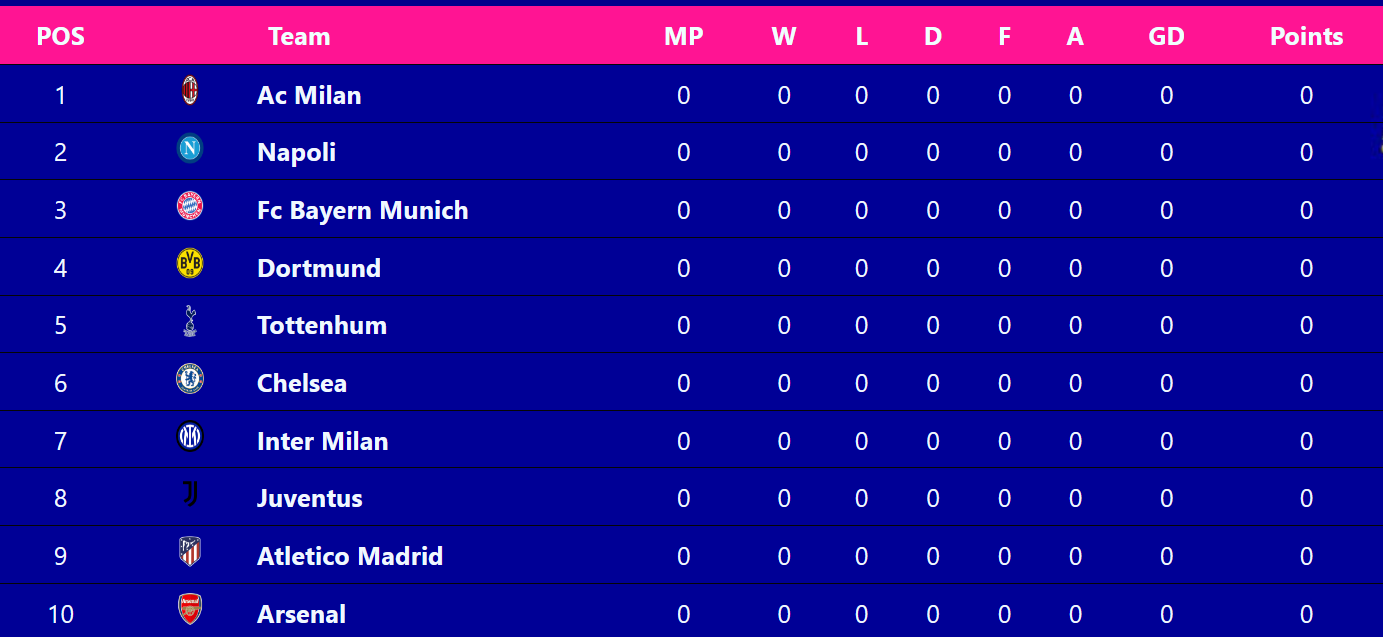
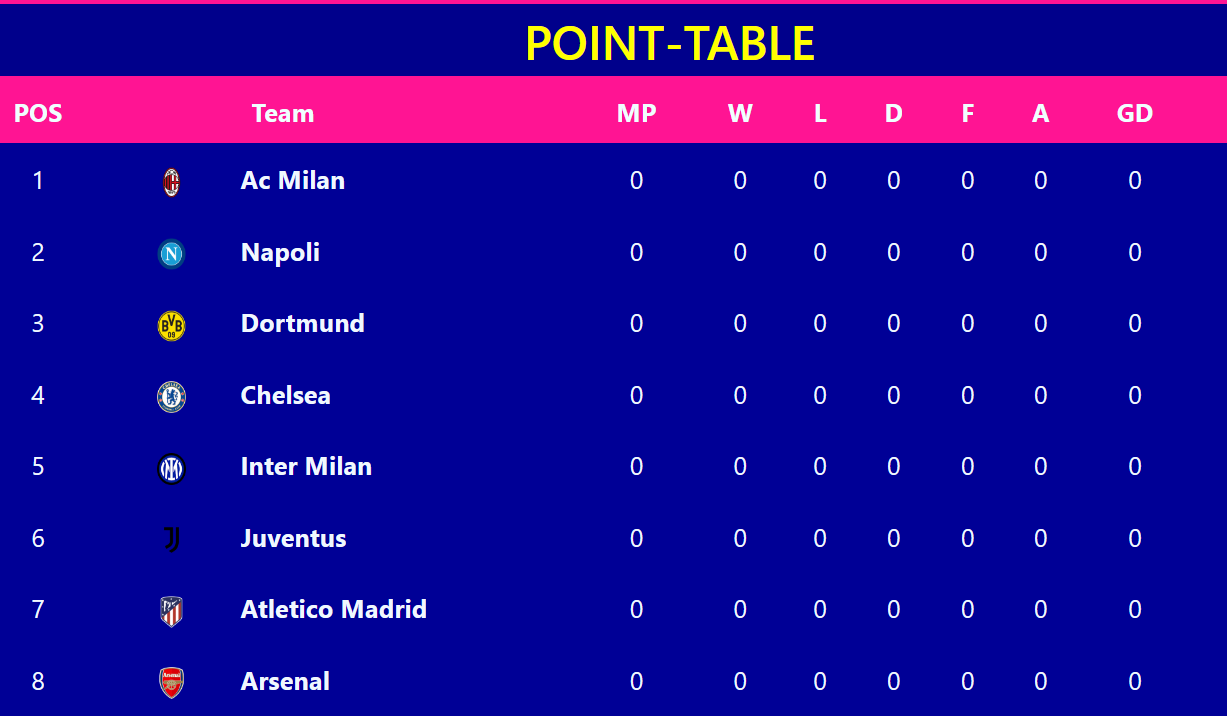
hi

diff --git a/index.html b/index.html
@@ -34,18 +34,16 @@
               <li><a class="dropdown-item" href="https://risalat345.github.io/Ac-Milan/team-list"><img src="Flag/download (3).png" alt="" height="20px" width="20px">AC-MILAN</a></li>
               <li><a class="dropdown-item" href="https://risalat345.github.io/Inter-Milan/team-list"><img src="Flag/download (2).png" alt="" height="20px" width="20px">INTER-MILAN</a></li>
               <li><a class="dropdown-item" href="https://risalat345.github.io/Dortmund/team-list"><img src="Flag/download (9).png" alt="" height="20px" width="20px">DORTMUND</a></li>
-              <li><a class="dropdown-item" href="#"><img src="Flag/download (4).png" alt="" height="20px" width="20px">TOTTENHUM</a></li>
-              <li><a class="dropdown-item" href="#"><img src="Flag/download (7).png" alt="" height="20px" width="20px">ARSENAL</a></li>
+              <li><a class="dropdown-item" href="https://risalat345.github.io/Arsenal/team-list"><img src="Flag/download (7).png" alt="" height="20px" width="20px">ARSENAL</a></li>
               <li><a class="dropdown-item" href="https://risalat345.github.io/Napoli/team-list"><img src="Flag/download.png" alt="" height="20px" width="20px">NAPOLI</a></li>
               <li><a class="dropdown-item" href="https://risalat345.github.io/Atletico-Madrid/team-list"><img src="Flag/download (6).png" alt="" height="20px" width="20px">ATLETICO-MADRID</a></li>
-              <li><a class="dropdown-item" href="#"><img src="Flag/download (8).png" alt="" height="20px" width="20px">FC BAYERN MUNICH</a></li>
             </ul>
           </li>
       </div>
     </div>
   </nav>
   <img class="img-fluid" src="Flag/Logo.png" alt="">
-  <img class="img-fluid" src="images/abc.png" alt="">
+  <img class="img-fluid" src="images/dol.png" alt="">
   <img class="img-fluid" src="images/table.png" alt="">
 </body>
 </html>
